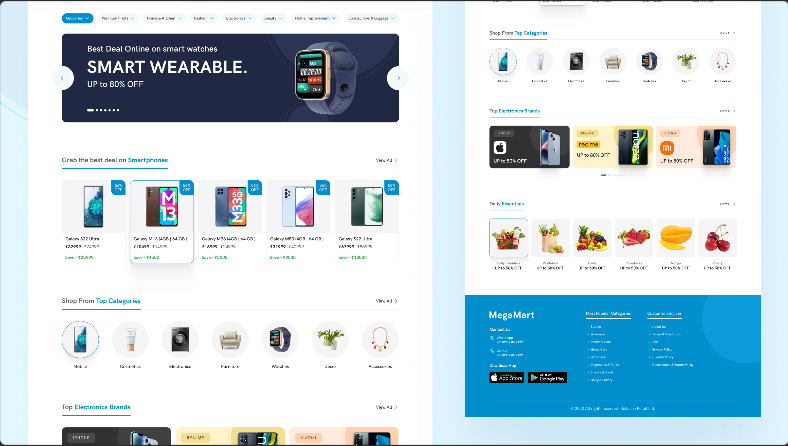
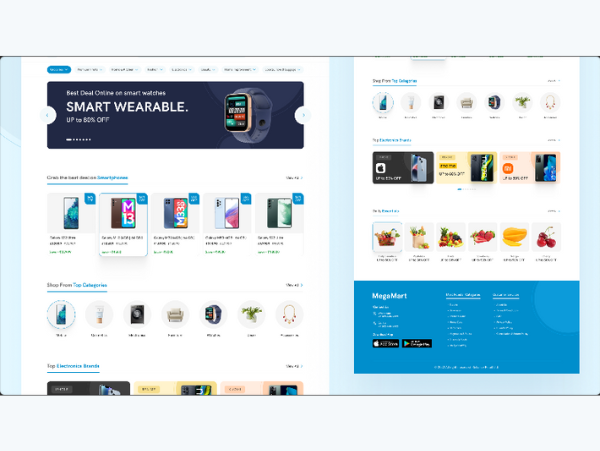
projects updated

diff --git a/index.html b/index.html
@@ -949,7 +949,7 @@
                     <ion-icon name="eye-outline"></ion-icon>
                   </div>
 
-                  <img src="./assets/images/project-3.jpg" alt="rental-website" loading="lazy">
+                  <img src="./assets/images/project-4.png" alt="rental-website" loading="lazy">
                 </figure>
 
                 <h3 class="project-title">Fusion House Rental Services Website</h3>
@@ -967,7 +967,7 @@
                     <ion-icon name="eye-outline"></ion-icon>
                   </div>
 
-                  <img src="./assets/images/project-4.png" alt="Shoppersstore" loading="lazy">
+                  <img src="./assets/images/project-5.png" alt="Shoppersstore" loading="lazy">
                 </figure>
 
                 <h3 class="project-title">Ecommerce Stores for all Items</h3>
@@ -978,7 +978,7 @@
             </li>
 
             <li class="project-item  active" data-filter-item data-category="Web Development">
-              <a href="">
+              <a href="https://uzairhussain.tech/" target="_blank">
 
                 <figure class="project-img">
                   <div class="project-item-icon-box">
@@ -996,14 +996,14 @@
             </li>
 
             <li class="project-item  active" data-filter-item data-category="Others">
-              <a href="">
+              <a href="https://github.com/UzairHussain193/StopWatch-Java" target="_blank">
 
                 <figure class="project-img">
                   <div class="project-item-icon-box">
                     <ion-icon name="eye-outline"></ion-icon>
                   </div>
 
-                  <img src="./assets/images/project-5.png" alt="stopwatch" loading="lazy">
+                  <img src="./assets/images/project-8.png" alt="stopwatch" loading="lazy">
                 </figure>
 
                 <h3 class="project-title">Digital Watch with Java</h3>
@@ -1021,7 +1021,7 @@
                     <ion-icon name="eye-outline"></ion-icon>
                   </div>
 
-                  <img src="./assets/images/project-6.jpg" alt="social-media-marketing" loading="lazy">
+                  <img src="./assets/images/project-6.png" alt="social-media-marketing" loading="lazy">
                 </figure>
 
                 <h3 class="project-title">Social Media Marketing - Rentpayy</h3>
@@ -1043,7 +1043,7 @@
                   <img src="./assets/images/project-7.png" alt="grocery store" loading="lazy">
                 </figure>
 
-                <h3 class="project-title">Grocery Store</h3>
+                <h3 class="project-title">Grocery E-commerce Store</h3>
 
                 <p class="project-category">E-commerce Stores</p>
 
